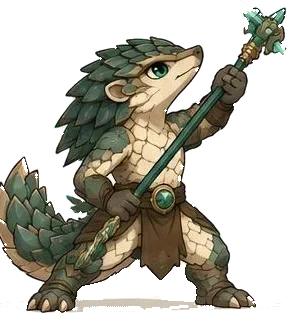
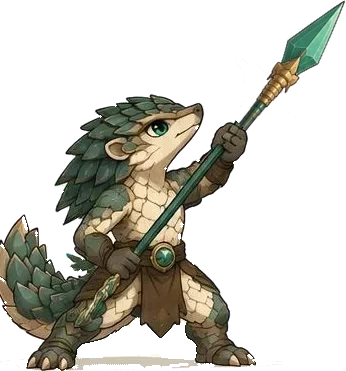
Realm: Kestran's Spearstorm pose has its spearhead in line with the shaft
Claude-Session: https://claude.ai/code/session_01V1aEsn5B6Gnr4Ug8DBZ5Wk

diff --git a/realm-images.js b/realm-images.js
@@ -13,9 +13,9 @@ const RL_ART={
   // Kestran (pangolin spear knight, chibi). LEGENDARY. Frames per form are [Spear Thrust, Winding Sweep, Spearstorm]:
   // the thrust is a lunge; the sweep reuses the thrust stance (the sheet's sweep crosses his legs) and draws the painted arc.
   pan:{f:[{src:'art/pan-1.webp',ax:200,ay:607,h:587,w:408,ih:606,ht:0},{src:'art/pan-2.webp',ax:208,ay:615,h:595,w:423,ih:614,ht:0},{src:'art/pan-3.webp',ax:250,ay:618,h:598,w:489,ih:617,ht:0}],pose:'skill',melee:true,meleeSk:[true,false,false],dashPose:0,slash:'jade',
-        c:[[{src:'art/pan-1c1.webp',ax:130,ay:284,h:275,w:416,ih:284,ht:0},{src:'art/pan-1c2.webp',ax:130,ay:284,h:275,w:416,ih:284,ht:0},{src:'art/pan-1c3.webp',ax:140,ay:313,h:303,w:289,ih:313,ht:0}],
-           [{src:'art/pan-2c1.webp',ax:132,ay:289,h:280,w:428,ih:289,ht:0},{src:'art/pan-2c2.webp',ax:132,ay:289,h:280,w:428,ih:289,ht:0},{src:'art/pan-2c3.webp',ax:144,ay:391,h:379,w:293,ih:391,ht:0}],
-           [{src:'art/pan-3c1.webp',ax:135,ay:297,h:288,w:442,ih:297,ht:0},{src:'art/pan-3c2.webp',ax:135,ay:297,h:288,w:442,ih:297,ht:0},{src:'art/pan-3c3.webp',ax:147,ay:421,h:408,w:304,ih:421,ht:0}]],
+        c:[[{src:'art/pan-1c1.webp',ax:130,ay:284,h:275,w:416,ih:284,ht:0},{src:'art/pan-1c2.webp',ax:130,ay:284,h:275,w:416,ih:284,ht:0},{src:'art/pan-1c3.webp',ax:140,ay:371,h:359,w:346,ih:371,ht:0}],
+           [{src:'art/pan-2c1.webp',ax:132,ay:289,h:280,w:428,ih:289,ht:0},{src:'art/pan-2c2.webp',ax:132,ay:289,h:280,w:428,ih:289,ht:0},{src:'art/pan-2c3.webp',ax:144,ay:391,h:379,w:311,ih:391,ht:0}],
+           [{src:'art/pan-3c1.webp',ax:135,ay:297,h:288,w:442,ih:297,ht:0},{src:'art/pan-3c2.webp',ax:135,ay:297,h:288,w:442,ih:297,ht:0},{src:'art/pan-3c3.webp',ax:147,ay:401,h:389,w:349,ih:401,ht:0}]],
         spell:[{vp:['#ffffff','#d8fff0','#5fd9b0','#1e5a46'],hand:[150,150],bySkill:[null,{burst:'art/fx-pan-arc1.webp',aoe:'sweep'},{aoe:'spearrain',img:'art/fx-pan-spear1.webp'}]},
                {vp:['#ffffff','#d8fff0','#5fd9b0','#1e5a46'],hand:[150,150],bySkill:[null,{burst:'art/fx-pan-arc2.webp',aoe:'sweep'},{aoe:'spearrain',img:'art/fx-pan-spear2.webp'}]},
                {vp:['#ffffff','#d8fff0','#5fd9b0','#1e5a46'],hand:[150,150],bySkill:[null,{burst:'art/fx-pan-arc3.webp',aoe:'sweep'},{aoe:'spearrain',img:'art/fx-pan-spear3.webp'}]}]},
